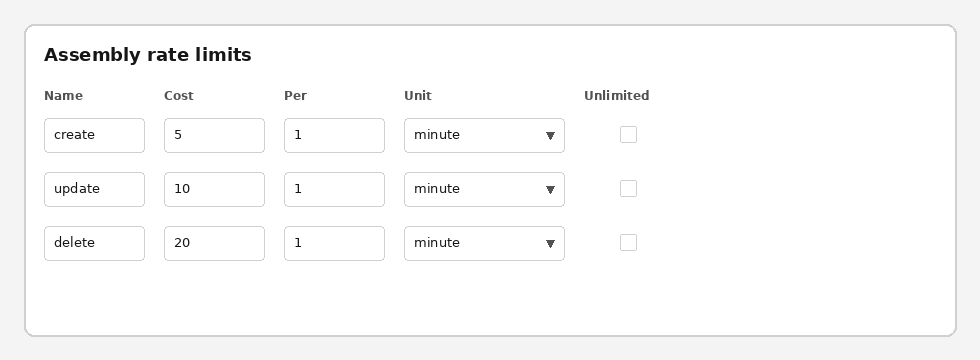
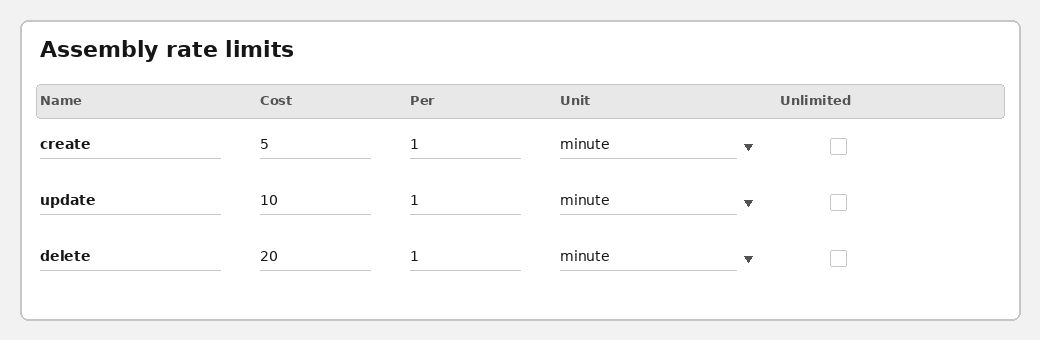
Use cleaner screenshots and bold keywords instead of code highlights
- Regenerate plan and assembly switch images to match clearer reference UI
- Render create/update/delete as bold text without background shading
- Replace inline backticks with bold in post body to remove gray code backgrounds

diff --git a/_posts/2026-07-13-api-connect-dynamic-rate-limits.md b/_posts/2026-07-13-api-connect-dynamic-rate-limits.md
@@ -6,19 +6,19 @@ categories: [IBM API Connect]
 tags: [api-connect, rate-limiting, assembly, headers, ibm]
 ---
 
-Not every API call should cost the same against your quota. A lightweight `create` is different from a heavy `update` or a destructive `delete` — yet many teams apply a single flat rate limit at the gateway and wonder why burst traffic still overwhelms backends.
+Not every API call should cost the same against your quota. A lightweight **create** is different from a heavy **update** or a destructive **delete** — yet many teams apply a single flat rate limit at the gateway and wonder why burst traffic still overwhelms backends.
 
-In IBM API Connect, you can define **named assembly rate limits** on an API plan and then **consume the right limit at runtime** based on a value from the request — in my case, the `opname` header. Here is the pattern I use.
+In IBM API Connect, you can define **named assembly rate limits** on an API plan and then **consume the right limit at runtime** based on a value from the request — in my case, the **opname** header. Here is the pattern I use.
 
 ## The Problem
 
-A single endpoint handles multiple logical operations. Clients send an `opname` header (`create`, `update`, or `delete`) to indicate what they want to do. Each operation has a different cost profile:
+A single endpoint handles multiple logical operations. Clients send an **opname** header (**create**, **update**, or **delete**) to indicate what they want to do. Each operation has a different cost profile:
 
 | Operation | Relative cost | Why |
 |-----------|---------------|-----|
-| `create`  | Low           | Simple insert, minimal downstream calls |
-| `update`  | Medium        | Validation + partial writes |
-| `delete`  | High          | Cascading cleanup, audit trails |
+| **create**  | Low           | Simple insert, minimal downstream calls |
+| **update**  | Medium        | Validation + partial writes |
+| **delete**  | High          | Cascading cleanup, audit trails |
 
 A one-size-fits-all rate limit either blocks legitimate light traffic or lets expensive operations through too easily.
 
@@ -30,26 +30,26 @@ In the API product plan, open **Assembly rate limits** and create one named limi
 
 In my setup:
 
-- **create** — cost `5`, `1` per `minute`
-- **update** — cost `10`, `1` per `minute`
-- **delete** — cost `20`, `1` per `minute`
+- **create** — cost **5**, **1** per **minute**
+- **update** — cost **10**, **1** per **minute**
+- **delete** — cost **20**, **1** per **minute**
 
-These names (`create`, `update`, `delete`) are the keys the assembly will reference later. Keeping names aligned with the header values avoids mapping logic in the gateway.
+These names (**create**, **update**, **delete**) are the keys the assembly will reference later. Keeping names aligned with the header values avoids mapping logic in the gateway.
 
 ## Step 2 — Branch in the Assembly with a Switch
 
-Add a **switch** policy at the top of the assembly (after authentication, before invoke). Each case matches `request.headers.opname` and routes to a dedicated **ratelimit** policy.
+Add a **switch** policy at the top of the assembly (after authentication, before invoke). Each case matches **request.headers.opname** and routes to a dedicated **ratelimit** policy.
 
 ![Assembly switch routing to ratelimit policies by opname header]({{ '/assets/images/posts/api-connect-rate-limits/assembly-switch-ratelimit.png' | relative_url }})
 
 The four branches:
 
-1. `request.headers.opname = "create"` → ratelimit (create)
-2. `request.headers.opname = "update"` → ratelimit (update)
-3. `request.headers.opname = "delete"` → ratelimit (delete)
+1. **request.headers.opname = "create"** → ratelimit (create)
+2. **request.headers.opname = "update"** → ratelimit (update)
+3. **request.headers.opname = "delete"** → ratelimit (delete)
 4. **Otherwise** → throw (reject unknown operations)
 
-The **Otherwise** branch is important. Without it, requests with a missing or invalid `opname` would skip rate limiting entirely and still reach the backend.
+The **Otherwise** branch is important. Without it, requests with a missing or invalid **opname** would skip rate limiting entirely and still reach the backend.
 
 ## Step 3 — Configure Each Ratelimit Policy
 
@@ -61,20 +61,20 @@ Key fields:
 
 | Field | Value | Purpose |
 |-------|-------|---------|
-| **Source** | `plan-named` | Pull limits from the API plan's named assembly rate limits |
-| **Rate limit name** | `create` (or `update` / `delete`) | Selects which named bucket to use |
-| **Rate limit operation** | `consume` | Deducts tokens when the request passes through |
+| **Source** | **plan-named** | Pull limits from the API plan's named assembly rate limits |
+| **Rate limit name** | **create** (or **update** / **delete**) | Selects which named bucket to use |
+| **Rate limit operation** | **consume** | Deducts tokens when the request passes through |
 
 Repeat this policy three times — one per switch case — changing only the rate limit name.
 
 ## How It Works End to End
 
-1. Client calls the API with header `opname: create`.
-2. The switch matches the `create` branch.
-3. The ratelimit policy consumes `5` tokens from the `create` bucket defined on the plan.
-4. If tokens remain, the request continues to invoke; if not, API Connect returns `429 Too Many Requests`.
+1. Client calls the API with header **opname: create**.
+2. The switch matches the **create** branch.
+3. The ratelimit policy consumes **5** tokens from the **create** bucket defined on the plan.
+4. If tokens remain, the request continues to invoke; if not, API Connect returns **429 Too Many Requests**.
 
-A `delete` call on the same endpoint consumes from the `delete` bucket at cost `20`, so heavy operations are throttled more aggressively even though the URL is identical.
+A **delete** call on the same endpoint consumes from the **delete** bucket at cost **20**, so heavy operations are throttled more aggressively even though the URL is identical.
 
 ## Example Request
 
@@ -86,7 +86,7 @@ curl -X POST "https://api.example.com/v1/orders" \
   -d '{"orderId": "ORD-1001", "status": "shipped"}'
 ```
 
-With `opname: update`, the gateway hits the update branch and consumes from the `update` rate-limit bucket.
+With **opname: update**, the gateway hits the update branch and consumes from the **update** rate-limit bucket.
 
 ## Assembly Snippet (YAML)
 
@@ -132,20 +132,20 @@ assembly:
         target-url: $(target-url)
 ```
 
-Adjust the `throw` message and fault name to match your API's error contract.
+Adjust the **throw** message and fault name to match your API's error contract.
 
 ## Testing Tips
 
-- **Verify each branch** — send requests with each `opname` value and confirm the correct limit is hit in analytics.
-- **Exhaust one bucket** — flood `create` until you get `429`; confirm `update` still works on the same client credentials.
-- **Test the Otherwise path** — omit `opname` or send `opname: patch` and confirm the throw policy fires before invoke.
+- **Verify each branch** — send requests with each **opname** value and confirm the correct limit is hit in analytics.
+- **Exhaust one bucket** — flood **create** until you get **429**; confirm **update** still works on the same client credentials.
+- **Test the Otherwise path** — omit **opname** or send **opname: patch** and confirm the throw policy fires before invoke.
 - **Watch plan changes** — if you rename a limit on the plan, update every matching ratelimit policy in the assembly.
 
 ## Key Takeaways
 
 - Named assembly rate limits on the plan let you define **multiple weighted buckets** in one subscription.
 - A **switch on request headers** selects the right bucket without duplicating APIs or routes.
-- **`plan-named` + `consume`** ties assembly policy to plan configuration — change limits in the product without redeploying assembly logic.
+- **plan-named** + **consume** ties assembly policy to plan configuration — change limits in the product without redeploying assembly logic.
 - Always add an **Otherwise** branch so malformed requests cannot bypass throttling.
 
 This pattern works well for multiplexed endpoints, legacy systems that overload a single URL, and any API where operation cost varies but the routing surface stays flat.